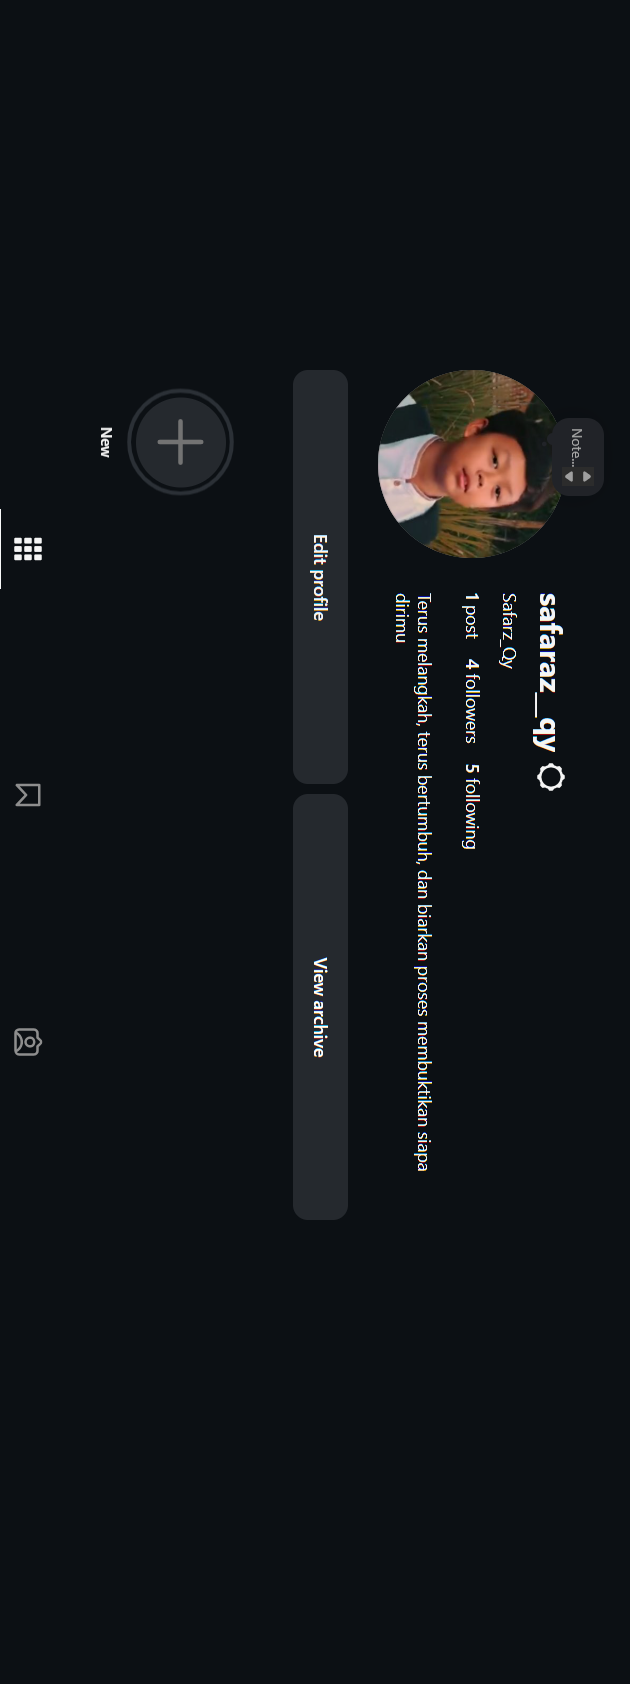
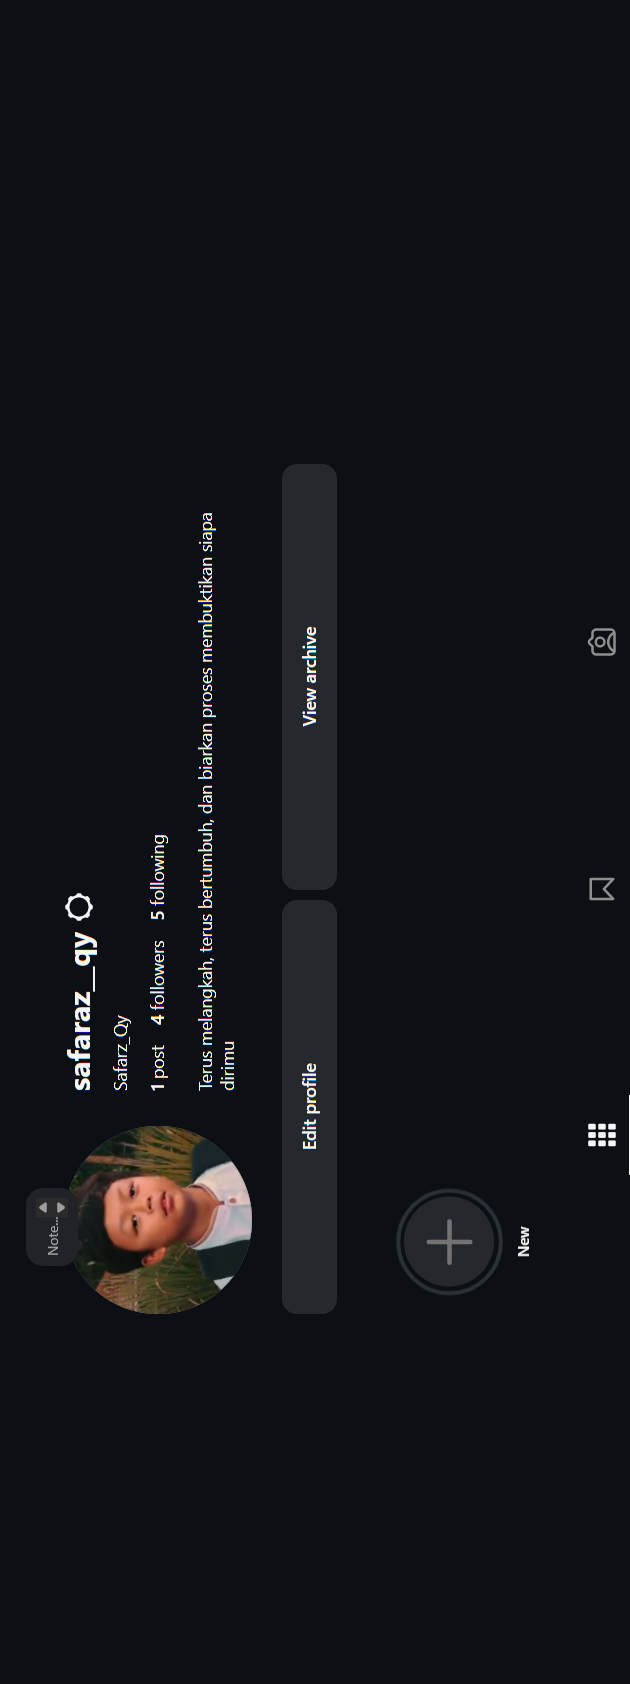
new data

diff --git a/data/data.ts b/data/data.ts
@@ -22,7 +22,7 @@ export const profile: Profile = {
 
 export const about: About = {
     heading: "Story With Passion",
-    description: "I am a content creator and developer but I am focused to be a content creator, and post in instagram, tiktok, and I am a developer, and I am focused to be a developer, and post in github and post in vercel.com .",
+    description: "I am focused to be a content creator and I am make content for I post in Instagram",
     skills: [
         {
             icon: GlobeAltIcon,
@@ -59,7 +59,7 @@ export const stats: Stats[] = [
 ];
 
 export const projects: Project = {
-    heading: "My Projects",
+    heading: "My Project in Scholl",
     items: [
         {
             title: "Project 1",
@@ -70,19 +70,19 @@ export const projects: Project = {
         {
             title: "Project 2",
             description: "Description of Project 1",
-            imageUrl: "/img/2.png",
+            imageUrl: "/img/8.png",
             projectUrl: "https://example.com/project1"
         },
         {
             title: "Project 3",
             description: "Description of Project 1",
-            imageUrl: "/img/3.jpg",
+            imageUrl: "/img/5.png",
             projectUrl: "https://example.com/project1"
         },
         {
             title: "Project 4",
             description: "Description of Project 1",
-            imageUrl: "/img/3.jpg",
+            imageUrl: "/img/6.png",
             projectUrl: "https://example.com/project1"
         },
     ],
@@ -90,7 +90,7 @@ export const projects: Project = {
 
 export const learning: Learning = {
     heading: "Learning",
-    description: "I am constantly learning and improving my skills in frontend development.",
+    description: "I am constantly learning and improving my skills in frontend development, content developer, and designer.",
     items: [
         {
             icon: BuildingLibraryIcon,
@@ -123,9 +123,9 @@ export const contact: Contact = {
     address: "123 Main St, City, Country",
     socialLinks: [
         {
-            icon: PlayIcon,
-            platform: "Website",
-            url: "https://example.com"
+            icon: UserCircleIcon,
+            platform: "Instagram",
+            url: "https://www.instagram.com/safaraz__qy/"
         },
         {
             icon: PlayIcon,
@@ -134,8 +134,8 @@ export const contact: Contact = {
         },
         {
             icon: PlayIcon,
-            platform: "Twitter",
-            url: "https://twitter.com/example"
+            platform: "GitHub",
+            url: "https://github.com/SaPaVaz"
         },
     ]
 }
